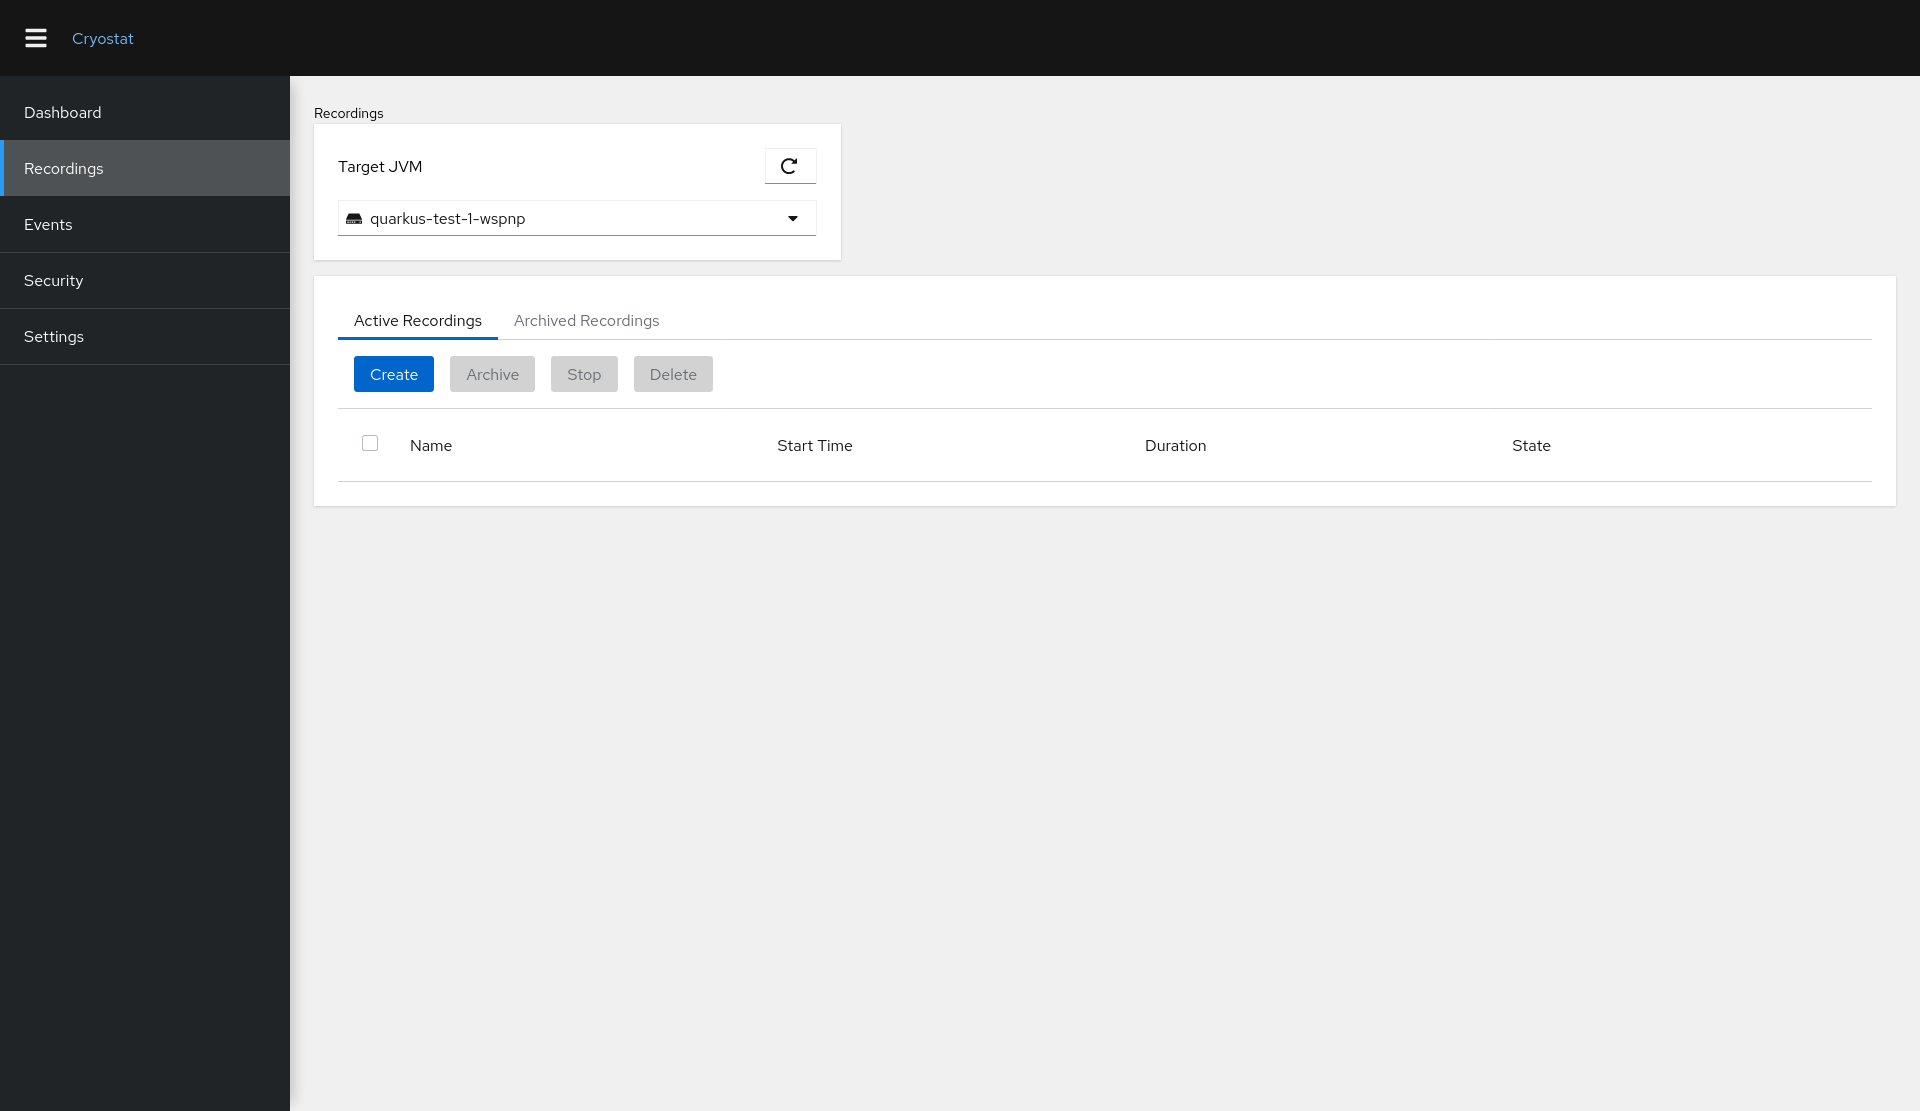
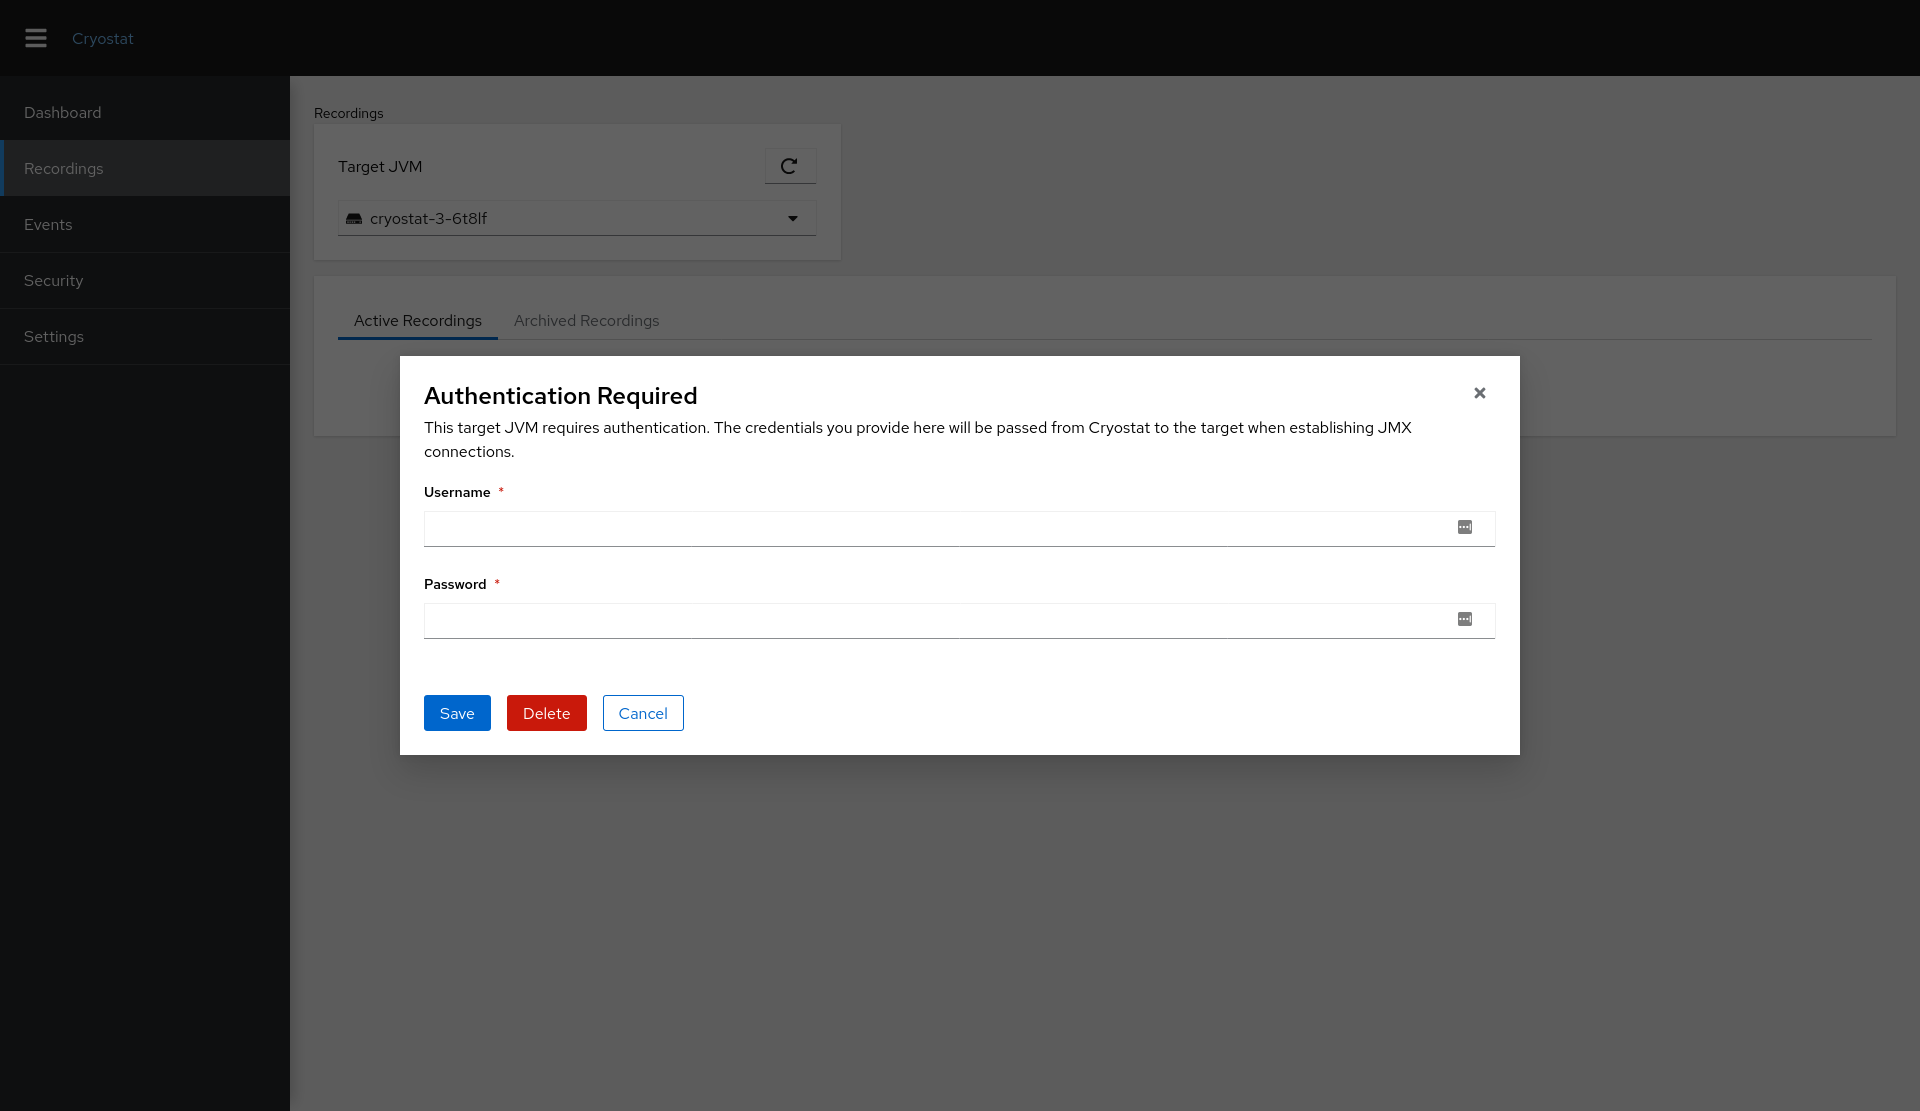
Insert JMX authentication dialog image

diff --git a/_getting-started/startstop-a-recording.md b/_getting-started/startstop-a-recording.md
@@ -14,6 +14,9 @@ JVM.
   <li>
     <details>
       <summary>Navigate to Recordings</summary>
+      <a href="{{site.url}}/images/startstop-a-recording-2.png" target="_blank">
+        <img src="{{site.url}}/images/startstop-a-recording-2.png">
+      </a>
       <p>
         Supply JMX credentials to authenticate to the target, if necessary. If
         the target is not configured with JMX authentication then the
@@ -30,16 +33,16 @@ JVM.
   <li>
     <details>
       <summary>Click <i>Create</i></summary>
-      <a href="{{site.url}}/images/startstop-a-recording-2.png" target="_blank">
-        <img src="{{site.url}}/images/startstop-a-recording-2.png">
+      <a href="{{site.url}}/images/startstop-a-recording-3.png" target="_blank">
+        <img src="{{site.url}}/images/startstop-a-recording-3.png">
       </a>
     </details>
   </li>
   <li>
     <details>
       <summary>Configure and create the new recording</summary>
-      <a href="{{site.url}}/images/startstop-a-recording-3.png" target="_blank">
-        <img src="{{site.url}}/images/startstop-a-recording-3.png">
+      <a href="{{site.url}}/images/startstop-a-recording-4.png" target="_blank">
+        <img src="{{site.url}}/images/startstop-a-recording-4.png">
       </a>
       <p>
         Enter a name for the new recording. The form will alert you if the name
@@ -66,8 +69,8 @@ JVM.
   <li>
     <details>
       <summary>Stop the recording</summary>
-      <a href="{{site.url}}/images/startstop-a-recording-4.png" target="_blank">
-        <img src="{{site.url}}/images/startstop-a-recording-4.png">
+      <a href="{{site.url}}/images/startstop-a-recording-5.png" target="_blank">
+        <img src="{{site.url}}/images/startstop-a-recording-5.png">
       </a>
       <p>
         When you no longer desire for the Flight Recording to be active and
